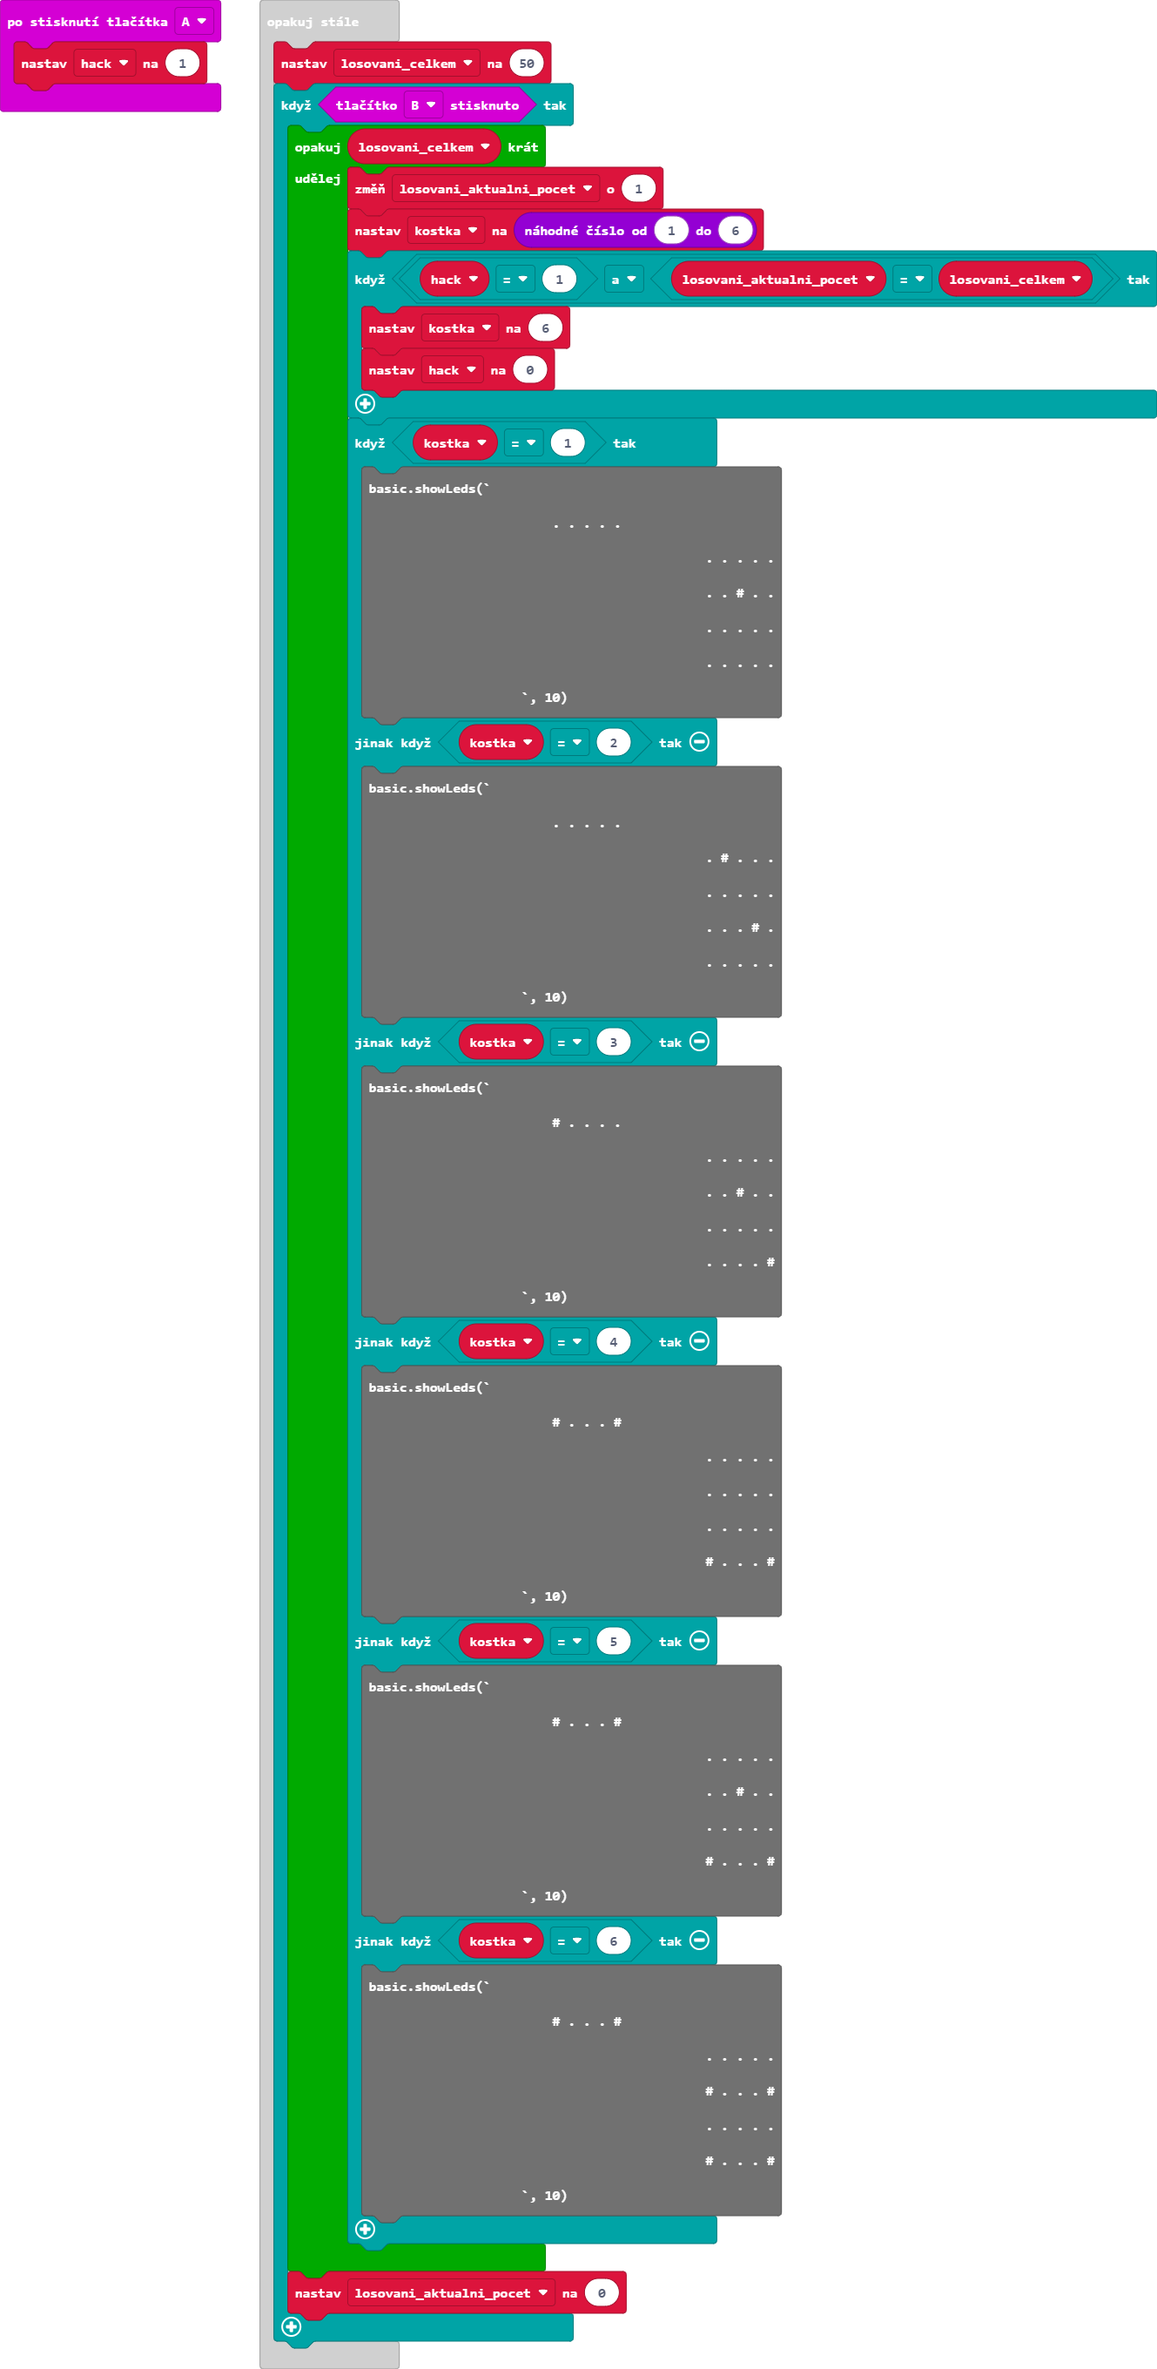
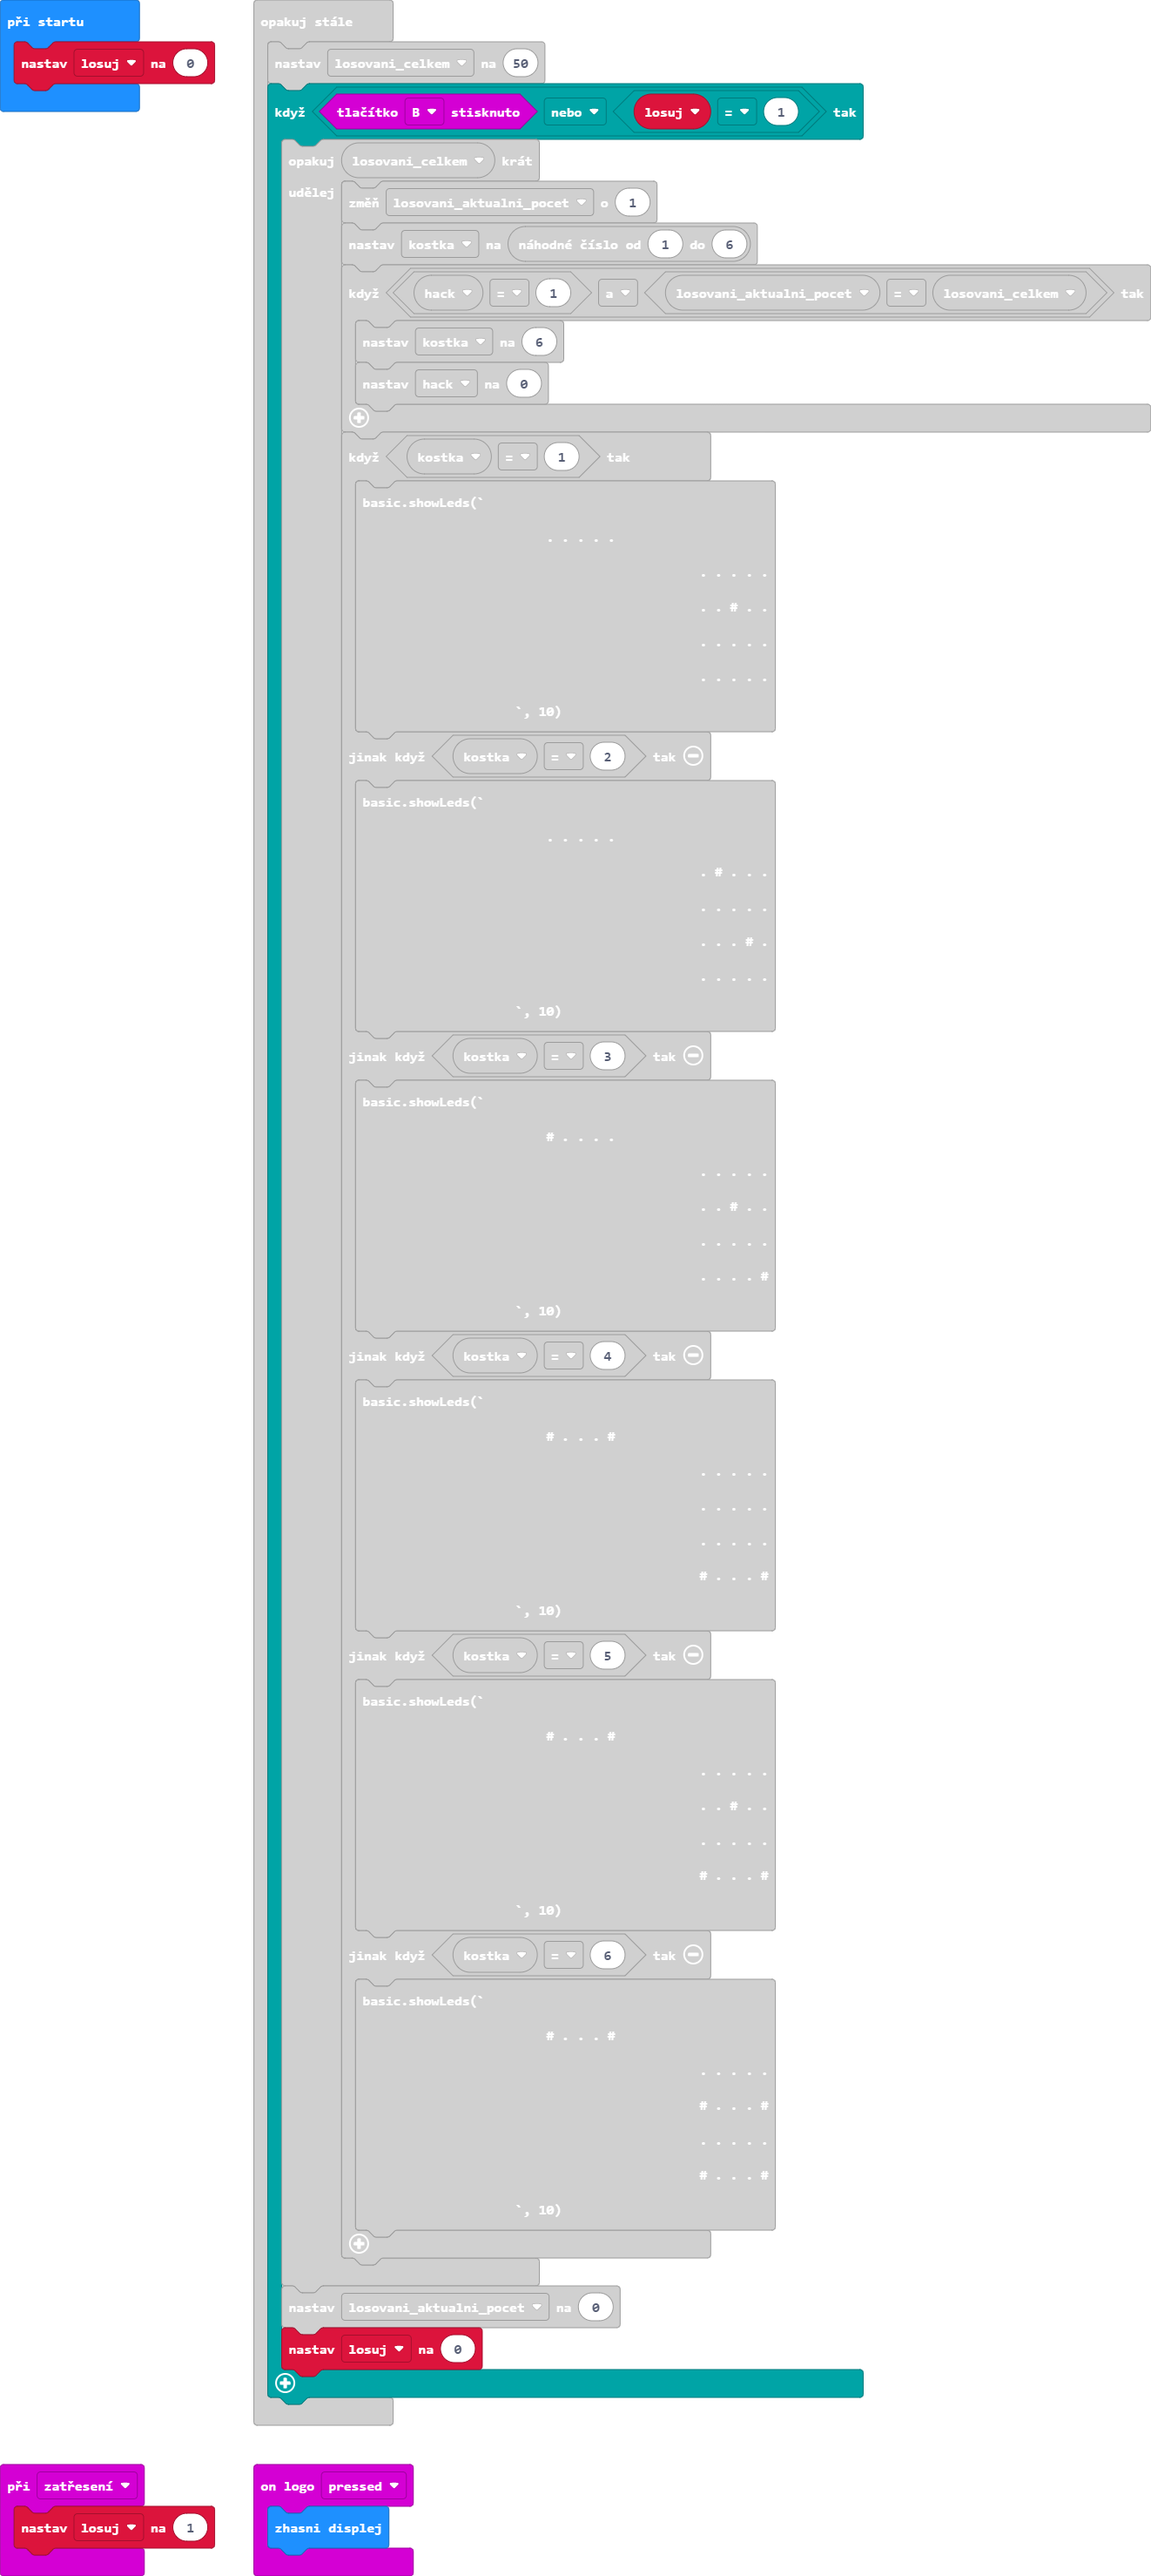
Aktualizovat main.blocks, main.ts

diff --git a/main.ts b/main.ts
@@ -1,13 +1,21 @@
-let hack = 0
-let losovani_celkem = 0
-let losovani_aktualni_pocet = 0
-let kostka = 0
 input.onButtonPressed(Button.A, function () {
     hack = 1
 })
+input.onGesture(Gesture.Shake, function () {
+    losuj = 1
+})
+input.onLogoEvent(TouchButtonEvent.Pressed, function () {
+    basic.clearScreen()
+})
+let kostka = 0
+let losovani_aktualni_pocet = 0
+let losovani_celkem = 0
+let hack = 0
+let losuj = 0
+losuj = 0
 basic.forever(function () {
     losovani_celkem = 50
-    if (input.buttonIsPressed(Button.B)) {
+    if (input.buttonIsPressed(Button.B) || losuj == 1) {
         for (let index = 0; index < losovani_celkem; index++) {
             losovani_aktualni_pocet += 1
             kostka = randint(1, 6)
@@ -66,5 +74,6 @@ basic.forever(function () {
             }
         }
         losovani_aktualni_pocet = 0
+        losuj = 0
     }
 })
